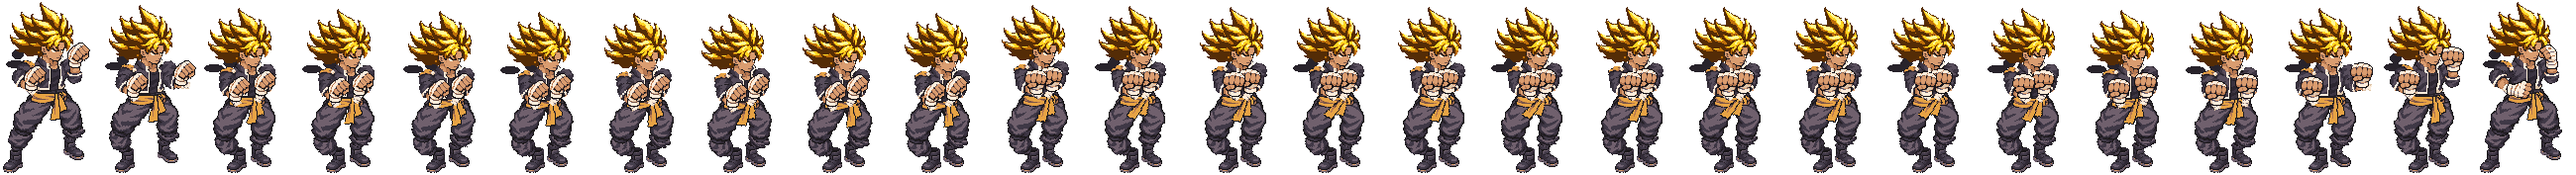
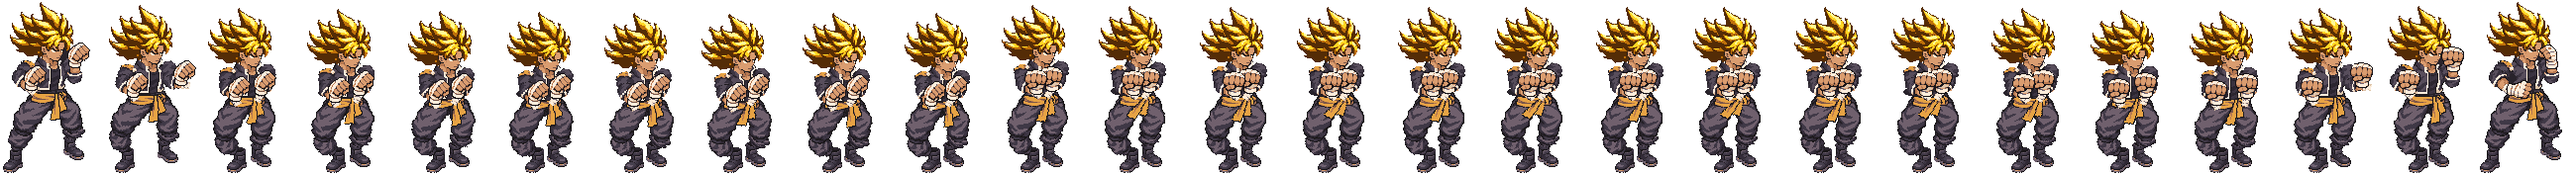
Fix dark blob behind Form II South shoulder: shift lining targets with the canvas pad, rebuild South sheets

diff --git a/art/characters/kai/base/production-south-candidate/rig/rig.py b/art/characters/kai/base/production-south-candidate/rig/rig.py
@@ -91,7 +91,8 @@ if FORM == "f1":   # Form I: spikier head + a separate rear hair piece on its ow
 def rot(deg):
     a = math.radians(deg); c, s = math.cos(a), math.sin(a); return np.array([[c, s], [-s, c]])
 
-LINING_TARGET = {"lining_n": (47.0, 77.0), "lining_f": (81.0, 50.0), "lining_c": (65.0, 104.0), "lining_w": (47.0, 85.0)}    # rest canvas px (the notch between sleeve, cuff cap and wrap / cheek and fist)
+LINING_TARGET = {"lining_n": (47.0, 77.0), "lining_f": (81.0, 50.0), "lining_c": (65.0, 104.0), "lining_w": (47.0, 85.0)}
+LINING_TARGET = {k: (v[0] + PAD_LEFT, v[1] + PAD_TOP) for k, v in LINING_TARGET.items()}    # rest canvas px, shifted with the Form II pad (the notch between sleeve, cuff cap and wrap / cheek and fist)
 for _p in PARTS:
     if _p["id"] in LINING_TARGET:
         _h = BONES[_p["bone"]][1]; _t = LINING_TARGET[_p["id"]]; _c = _p["pivot"]
